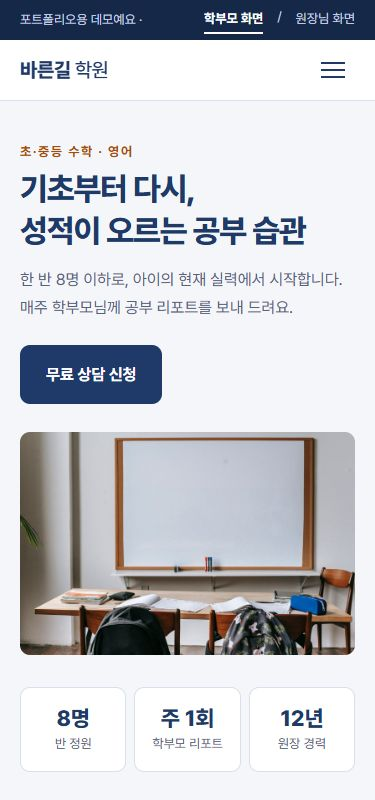
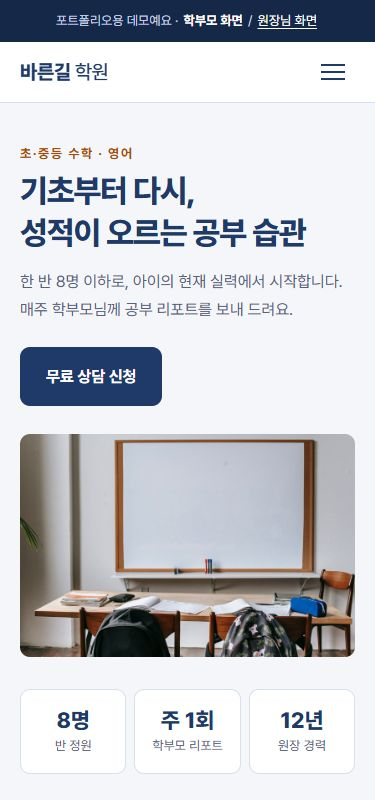
fix: 전체 리뷰 반영 (학원 탭 간 덮어쓰기, 데모 띠, 포커스, 사진 출처)
- 학원 학부모 화면: 신청 직전에 저장소를 다시 읽어 원장님 탭 변경을 덮어쓰지 않음
- 네 화면 모두 pageshow(bfcache 복원) 때 다시 읽어 그림
- 학원 데모 띠를 온기식당 방식으로(가운데, 링크 묶음 nowrap, 다른 화면 링크 밑줄)
- 학원 띠·바닥글 포커스 테두리 흰색, 입력칸 테두리 3:1 이상
- 사진 출처 링크(.md)를 "사진: Pexels" 글로 바꿈
- 학원 카드 버튼 aria-label에 학부모 이름, storage key null 처리
- 온기식당 수정 창: 사진을 바꾼 때만 setPhoto
- 문구: 알림톡, 일지 된장찌개 줄

diff --git a/src/demos/bareun-academy/css/style.css b/src/demos/bareun-academy/css/style.css
@@ -15,6 +15,7 @@
   --text: #1b2536;
   --text-sub: #56627a;
   --line: #d9dfeb;
+  --input-line: #7a8499;       /* 입력칸 테두리: 흰 카드 위 3.76:1 (--line은 1.34:1이라 칸이 잘 안 보임) */
   --on-navy: #ffffff;          /* 남색 바탕 위 글씨 */
   --on-navy-sub: #c5d0e6;
   --accent-warm: #a84a08;      /* 남은 자리 강조 (주황 한 색) */
@@ -61,6 +62,9 @@ h1, h2, h3, p, ul, ol, dl, dd, figure { margin: 0; }
 ul, ol { padding: 0; list-style: none; }
 
 :focus-visible { outline: 3px solid var(--accent-warm); outline-offset: 2px; }
+/* 남색 띠·바닥글 위에서는 주황 테두리가 잘 안 보여서(2.56:1) 흰색으로 바꾼다(14.72:1) */
+.demo-band :focus-visible,
+.footer :focus-visible { outline-color: var(--on-navy); }
 
 .container {
   width: 100%;
@@ -75,18 +79,22 @@ ul, ol { padding: 0; list-style: none; }
   color: var(--on-navy-sub);
   font-size: 13px;
 }
+/* 온기식당 띠와 같은 방식: 가운데 한 줄로 두고, 좁으면 링크 묶음째 다음 줄로 내린다(링크를 오른쪽 끝으로 밀지 않는다) */
 .demo-band__inner {
-  display: flex;
-  flex-wrap: wrap;
-  align-items: center;
-  justify-content: space-between;
-  gap: 4px 16px;
+  text-align: center;
   padding-top: 6px;
   padding-bottom: 6px;
 }
-.demo-band nav { display: flex; gap: 14px; }
-.demo-band a { text-decoration: none; padding: 2px 0; border-bottom: 2px solid transparent; }
-.demo-band a[aria-current="page"] { color: var(--on-navy); border-bottom-color: var(--on-navy); font-weight: 700; }
+/* ·, 두 링크, /를 한 덩어리로 묶어 줄이 바뀌어도 "·"만 떨어지지 않게 한다 */
+.demo-band__links { display: inline-block; white-space: nowrap; }
+.demo-band a {
+  display: inline-block;
+  padding: 4px 2px; /* 줄 높이는 그대로 두고 누르는 영역만 조금 넓힌다 */
+  color: var(--on-navy);
+  text-decoration: underline; /* 지금 화면이 아닌 쪽도 링크로 보이게 밑줄을 둔다 */
+  text-underline-offset: 3px;
+}
+.demo-band a[aria-current="page"] { font-weight: 700; text-decoration: none; }
 
 /* ===== 4. 헤더·메뉴 ===== */
 .header {
@@ -277,7 +285,7 @@ ul, ol { padding: 0; list-style: none; }
 .field textarea {
   width: 100%;
   padding: 12px;
-  border: 1px solid var(--line);
+  border: 1px solid var(--input-line);
   border-radius: 8px;
   background: var(--bg);
   color: var(--text);
@@ -319,6 +327,7 @@ ul, ol { padding: 0; list-style: none; }
 .footer__inner { display: grid; gap: 8px; }
 .footer__logo { font-size: 18px; font-weight: 800; color: var(--on-navy); }
 .footer__link { color: var(--on-navy); }
+.footer__credit { color: var(--on-navy-sub); } /* 링크가 아닌 글이라 밑줄 없이 보조 글씨 색 */
 
 /* ===== 12. 넓은 화면 ===== */
 @media (min-width: 768px) {
@@ -395,7 +404,7 @@ ul, ol { padding: 0; list-style: none; }
 .inq__btn[hidden] { display: none; }
 .inq__memo { display: flex; gap: 8px; align-items: end; }
 .inq__memo-label { flex: 1; min-width: 0; display: grid; gap: 4px; font-size: 14px; font-weight: 700; }
-.inq__memo-input { width: 100%; padding: 10px 12px; border: 1px solid var(--line); border-radius: 8px; background: var(--bg); color: var(--text); font: inherit; font-weight: 400; }
+.inq__memo-input { width: 100%; padding: 10px 12px; border: 1px solid var(--input-line); border-radius: 8px; background: var(--bg); color: var(--text); font: inherit; font-weight: 400; }
 .inq__memo-save { padding: 10px 16px; font-size: 14px; }
 
 .owner__empty { margin-top: 20px; padding: 24px; text-align: center; color: var(--text-sub); background: var(--bg); border: 1px dashed var(--line); border-radius: var(--radius); }

diff --git a/src/demos/bareun-academy/owner.html b/src/demos/bareun-academy/owner.html
@@ -20,14 +20,10 @@
 
   <!-- 데모 띠: 학부모 화면과 원장님 화면을 오가는 링크 -->
   <div class="demo-band">
-    <div class="container demo-band__inner">
-      <p>포트폴리오용 데모예요 ·</p>
-      <nav aria-label="화면 전환">
-        <a href="index.html">학부모 화면</a>
-        <span aria-hidden="true">/</span>
-        <a href="owner.html" aria-current="page">원장님 화면</a>
-      </nav>
-    </div>
+    <!-- ·, 두 링크, /를 한 덩어리(demo-band__links)로 묶어 줄이 바뀌어도 "·"만 떨어지지 않게 한다 -->
+    <nav class="container demo-band__inner" aria-label="화면 전환">
+      <p>포트폴리오용 데모예요 <span class="demo-band__links">· <a href="index.html">학부모 화면</a> <span aria-hidden="true">/</span> <a href="owner.html" aria-current="page">원장님 화면</a></span></p>
+    </nav>
   </div>
 
   <header class="header">
@@ -73,7 +69,7 @@
       <!-- O-06 안내와 되돌리기 -->
       <section class="owner__reset" aria-labelledby="reset-title">
         <h2 class="owner__reset-title" id="reset-title">데모 안내</h2>
-        <p class="notice">신청은 이 브라우저에만 24시간 저장돼요. 실제 서비스에서는 서버에 저장하고 원장님 휴대폰으로 알림을 보내요. 표시된 학부모 이름·연락처는 모두 지어낸 예시입니다.</p>
+        <p class="notice">신청은 이 브라우저에만 24시간 저장돼요. 실제 서비스에서는 서버에 저장하고 원장님 휴대폰으로 알림톡을 보내요. 표시된 학부모 이름·연락처는 모두 지어낸 예시입니다.</p>
         <button type="button" class="btn btn--ghost" id="resetBtn">예시로 되돌리기</button>
       </section>
 
@@ -110,7 +106,8 @@
     <div class="container footer__inner">
       <p class="footer__logo">바른길 학원</p>
       <p class="footer__notice">포트폴리오용 데모 사이트입니다. 학원·강사·연락처는 모두 지어낸 예시입니다.</p>
-      <p><a href="assets/CREDITS.md" class="footer__link">사진 출처</a></p>
+      <!-- 사진별 작가·원본 주소는 assets/CREDITS.md에 남겨 둔다(.md는 브라우저에서 날것으로 보여서 링크하지 않는다) -->
+      <p class="footer__credit">사진: Pexels</p>
       <a href="../../index.html" class="footer__link">← 포트폴리오로 돌아가기</a>
     </div>
   </footer>

diff --git a/src/demos/bareun-academy/js/owner.js b/src/demos/bareun-academy/js/owner.js
@@ -57,9 +57,14 @@ function buildCard(inq) {
     q(".inq__arrived").hidden = false;
   }
   // 지금 상태로 바꾸는 버튼은 필요 없으니 숨긴다
-  li.querySelectorAll(".inq__btn").forEach((b) => { b.hidden = b.dataset.status === inq.status; });
+  li.querySelectorAll(".inq__btn").forEach((b) => {
+    b.hidden = b.dataset.status === inq.status;
+    // 카드마다 같은 "등록" 버튼이 있어 스크린리더로는 구별이 안 되므로 누구의 버튼인지 이름에 넣는다
+    b.setAttribute("aria-label", `${inq.parentName} ${b.textContent}`);
+  });
   q(".inq__memo-input").value = inq.memo || "";
   q(".inq__memo-input").setAttribute("aria-label", `${inq.parentName} 메모`);
+  q(".inq__memo-save").setAttribute("aria-label", `${inq.parentName} 메모 저장`);
   return li;
 }
 
@@ -127,10 +132,8 @@ document.getElementById("resetBtn").addEventListener("click", () => {
   commit(resetState(new Date()));
 });
 
-// 다른 탭(학부모 화면)에서 신청하면 새로 고침 없이 다시 읽어 그린다
-window.addEventListener("storage", (e) => {
-  if (e.key !== STORAGE_KEY) return;
-  // 메모를 쓰던 중이면 글자와 커서 위치를 기억했다가 다시 그린 뒤 돌려놓는다
+// 저장소에서 다시 읽어 그린다. 메모를 쓰던 중이면 글자와 커서 위치를 기억했다가 다시 그린 뒤 돌려놓는다.
+function reloadFromStorage() {
   const a = document.activeElement;
   const typing = a && a.classList.contains("inq__memo-input")
     ? { id: a.closest(".inq").dataset.id, value: a.value, start: a.selectionStart, end: a.selectionEnd }
@@ -147,6 +150,17 @@ window.addEventListener("storage", (e) => {
       input.setSelectionRange(typing.start, typing.end);
     }
   }
+}
+
+// 다른 탭(학부모 화면)에서 신청하면 새로 고침 없이 다시 읽어 그린다
+window.addEventListener("storage", (e) => {
+  if (e.key !== STORAGE_KEY && e.key !== null) return; // key가 null이면 저장소 전체가 비워진 것
+  reloadFromStorage();
+});
+
+// 뒤로 가기로 돌아와 예전 화면이 그대로 꺼내졌을 때(bfcache)도 지금 저장된 내용으로 다시 그린다
+window.addEventListener("pageshow", (e) => {
+  if (e.persisted) reloadFromStorage();
 });
 
 render();

diff --git a/src/demos/ongi-sikdang/js/owner.js b/src/demos/ongi-sikdang/js/owner.js
@@ -400,6 +400,9 @@ menuForm.addEventListener("submit", (e) => {
     } else if (!updateMenu(d, id, v.value, now)) {
       return "NOT_FOUND";
     }
+    // 창 안에서 사진을 바꾸지 않았으면 건드리지 않는다.
+    // 연 때의 사진을 그대로 다시 쓰면 그사이 다른 탭에서 바꾼 사진을 덮어쓰게 된다.
+    if (edit.photo === edit.originalPhoto) return null;
     const p = setPhoto(d, id, edit.photo, now);
     return p.ok ? null : p.code;
   });
@@ -434,9 +437,8 @@ $("resetBtn").addEventListener("click", () => {
 
 // ===== 다른 탭에서 바뀐 내용 반영 =====
 
-window.addEventListener("storage", (e) => {
-  if (e.key !== STORAGE_KEY && e.key !== null) return; // key가 null이면 저장소 전체가 비워진 것
-  // 목록 안 버튼에 포커스가 있었으면 다시 그린 뒤 같은 줄·같은 버튼으로 돌려놓는다
+// 저장소에서 다시 읽어 그린다. 목록 안 버튼에 포커스가 있었으면 다시 그린 뒤 같은 줄·같은 버튼으로 돌려놓는다.
+function reloadFromStorage() {
   const a = document.activeElement;
   const rowFocus = a && a.closest && a.closest(".m-row")
     ? { id: a.closest(".m-row").dataset.id, act: a.dataset.act }
@@ -451,6 +453,17 @@ window.addEventListener("storage", (e) => {
     if (rowOf(rowFocus.id)) focusRow(rowFocus.id, rowFocus.act);
     else $("addBtn").focus(); // 그 메뉴가 다른 탭에서 지워졌으면
   }
+}
+
+window.addEventListener("storage", (e) => {
+  if (e.key !== STORAGE_KEY && e.key !== null) return; // key가 null이면 저장소 전체가 비워진 것
+  reloadFromStorage();
+});
+
+// 손님 화면에 갔다가 뒤로 가기로 돌아오면 예전 화면이 그대로 꺼내질 수 있다(bfcache). 그때도 다시 읽어 그린다.
+// 쓰다 만 칸과 열린 수정 창은 reloadFromStorage가 그대로 둔다.
+window.addEventListener("pageshow", (e) => {
+  if (e.persisted) reloadFromStorage();
 });
 
 fillNoticeForm();

diff --git a/src/demos/bareun-academy/index.html b/src/demos/bareun-academy/index.html
@@ -20,14 +20,10 @@
 
   <!-- 데모 띠: 학부모 화면과 원장님 화면을 오가는 링크 -->
   <div class="demo-band">
-    <div class="container demo-band__inner">
-      <p>포트폴리오용 데모예요 ·</p>
-      <nav aria-label="화면 전환">
-        <a href="index.html" aria-current="page">학부모 화면</a>
-        <span aria-hidden="true">/</span>
-        <a href="owner.html">원장님 화면</a>
-      </nav>
-    </div>
+    <!-- ·, 두 링크, /를 한 덩어리(demo-band__links)로 묶어 줄이 바뀌어도 "·"만 떨어지지 않게 한다 -->
+    <nav class="container demo-band__inner" aria-label="화면 전환">
+      <p>포트폴리오용 데모예요 <span class="demo-band__links">· <a href="index.html" aria-current="page">학부모 화면</a> <span aria-hidden="true">/</span> <a href="owner.html">원장님 화면</a></span></p>
+    </nav>
   </div>
 
   <!-- P-01 상단 메뉴 -->
@@ -308,7 +304,8 @@
     <div class="container footer__inner">
       <p class="footer__logo">바른길 학원</p>
       <p class="footer__notice">포트폴리오용 데모 사이트입니다. 학원·강사·연락처는 모두 지어낸 예시입니다.</p>
-      <p><a href="assets/CREDITS.md" class="footer__link">사진 출처</a></p>
+      <!-- 사진별 작가·원본 주소는 assets/CREDITS.md에 남겨 둔다(.md는 브라우저에서 날것으로 보여서 링크하지 않는다) -->
+      <p class="footer__credit">사진: Pexels</p>
       <a href="../../index.html" class="footer__link">← 포트폴리오로 돌아가기</a>
     </div>
   </footer>

diff --git a/src/demos/bareun-academy/js/main.js b/src/demos/bareun-academy/js/main.js
@@ -102,6 +102,10 @@ form.addEventListener("submit", (e) => {
     message: form.elements.message.value,
     consent: form.elements.consent.checked,
   };
+  // 원장님 화면(다른 탭)에서 상태·메모를 바꿨을 수 있으니 추가하기 직전에 저장소에서 다시 읽는다.
+  // 처음 연 때의 state에 더하면 그사이 바뀐 내용을 덮어써 버린다.
+  // 저장이 안 되는 브라우저(persisted=false)면 다시 읽으면 예시로 돌아가 앞서 낸 신청이 사라지므로 그대로 둔다.
+  if (persisted) ({ state, persisted } = loadState(storage, new Date()));
   const result = addInquiry(state, input, new Date());
 
   if (!result.ok) {
@@ -130,4 +134,12 @@ document.getElementById("againBtn").addEventListener("click", () => {
   form.elements.consent.checked = false;
   form.elements.message.value = "";
   form.elements.parentName.focus();
+});
+
+// 뒤로 가기로 돌아오면 브라우저가 예전 화면을 그대로 꺼내 보여 줄 수 있다(bfcache).
+// 그사이 다른 화면에서 바뀐 저장 상태를 다시 읽는다(이 화면엔 목록이 없어 저장 안내만 다시 맞춘다).
+window.addEventListener("pageshow", (e) => {
+  if (!e.persisted || !persisted) return;
+  ({ state, persisted } = loadState(storage, new Date()));
+  persistNotice.hidden = persisted;
 });

diff --git a/src/demos/ongi-sikdang/css/style.css b/src/demos/ongi-sikdang/css/style.css
@@ -354,7 +354,6 @@ a { color: inherit; }
 .footer__inner { display: grid; gap: 10px; }
 .footer__logo { font-family: var(--font-title); font-size: 20px; font-weight: 700; }
 .footer__notice { font-size: 14px; color: var(--on-ink-sub); }
-.footer__links a,
 .footer__back {
   display: inline-flex;
   align-items: center;
@@ -362,7 +361,7 @@ a { color: inherit; }
   font-size: 14px;
   color: var(--paper);
 }
-.footer__links a { text-decoration: underline; text-underline-offset: 3px; }
+.footer__credit { font-size: 14px; color: var(--on-ink-sub); } /* 링크가 아닌 글이라 밑줄 없이 보조 글씨 색 */
 .footer__back { text-decoration: none; font-weight: 700; }
 
 /* ===== 12. 사장님 화면 (owner.html) ===== */

diff --git a/src/demos/ongi-sikdang/index.html b/src/demos/ongi-sikdang/index.html
@@ -163,7 +163,8 @@
     <div class="container footer__inner">
       <p class="footer__logo">온기식당</p>
       <p class="footer__notice">포트폴리오용 데모 사이트입니다. 가게·메뉴·연락처는 모두 지어낸 예시입니다.</p>
-      <p class="footer__links"><a href="assets/CREDITS.md">사진 출처</a></p>
+      <!-- 사진별 작가·원본 주소는 assets/CREDITS.md에 남겨 둔다(.md는 브라우저에서 날것으로 보여서 링크하지 않는다) -->
+      <p class="footer__credit">사진: Pexels</p>
       <a href="../../index.html" class="footer__back">← 포트폴리오로 돌아가기</a>
     </div>
   </footer>

diff --git a/src/demos/ongi-sikdang/owner.html b/src/demos/ongi-sikdang/owner.html
@@ -102,7 +102,8 @@
     <div class="container footer__inner">
       <p class="footer__logo">온기식당</p>
       <p class="footer__notice">포트폴리오용 데모 사이트입니다. 가게·메뉴·연락처는 모두 지어낸 예시입니다.</p>
-      <p class="footer__links"><a href="assets/CREDITS.md">사진 출처</a></p>
+      <!-- 사진별 작가·원본 주소는 assets/CREDITS.md에 남겨 둔다(.md는 브라우저에서 날것으로 보여서 링크하지 않는다) -->
+      <p class="footer__credit">사진: Pexels</p>
       <a href="../../index.html" class="footer__back">← 포트폴리오로 돌아가기</a>
     </div>
   </footer>

diff --git a/src/demos/ongi-sikdang/js/main.js b/src/demos/ongi-sikdang/js/main.js
@@ -88,4 +88,12 @@ window.addEventListener("storage", (e) => {
   render();
 });
 
+// 사장님 화면에서 고치고 뒤로 가기로 돌아오면 브라우저가 예전 화면을 그대로 꺼낼 수 있다(bfcache).
+// 그때는 storage 이벤트가 오지 않으므로 지금 저장된 내용으로 다시 그린다.
+window.addEventListener("pageshow", (e) => {
+  if (!e.persisted) return;
+  ({ state, persisted } = loadState(storage, new Date()));
+  render();
+});
+
 render();

diff --git a/ai-agent/claude/일지_261121.md b/ai-agent/claude/일지_261121.md
@@ -19,7 +19,7 @@
 - 손님 화면과 사장님 화면(메뉴·가격·품절·오늘의 백반·공지 관리) 구현
 - 사진 올리기: 가로 600px로 줄여 저장, 10장 제한, 저장 공간이 넘치면 이전 상태 유지
 - 사진 8장은 Pexels에서 받아 `assets/CREDITS.md`에 출처 기록
-- 된장찌개 사진이 없어 메뉴를 해물순두부찌개로 바꿔 사진과 맞춤
+- 사진에 맞춰 해물순두부찌개 메뉴를 넣고, 된장찌개는 사진 없이 둠
 - 리뷰 수정: 오류 안내 닫기 버튼 포커스 테두리
 - 포트폴리오 세 번째 데모 카드로 연결(스크린샷 1280·375 JPG), 기획 R-13 완료, CLAUDE.md 갱신
 남은 일: 전체 브랜치 리뷰, 살롱 결 배포, Netlify 공개 전환, 크몽·숨고 링크
